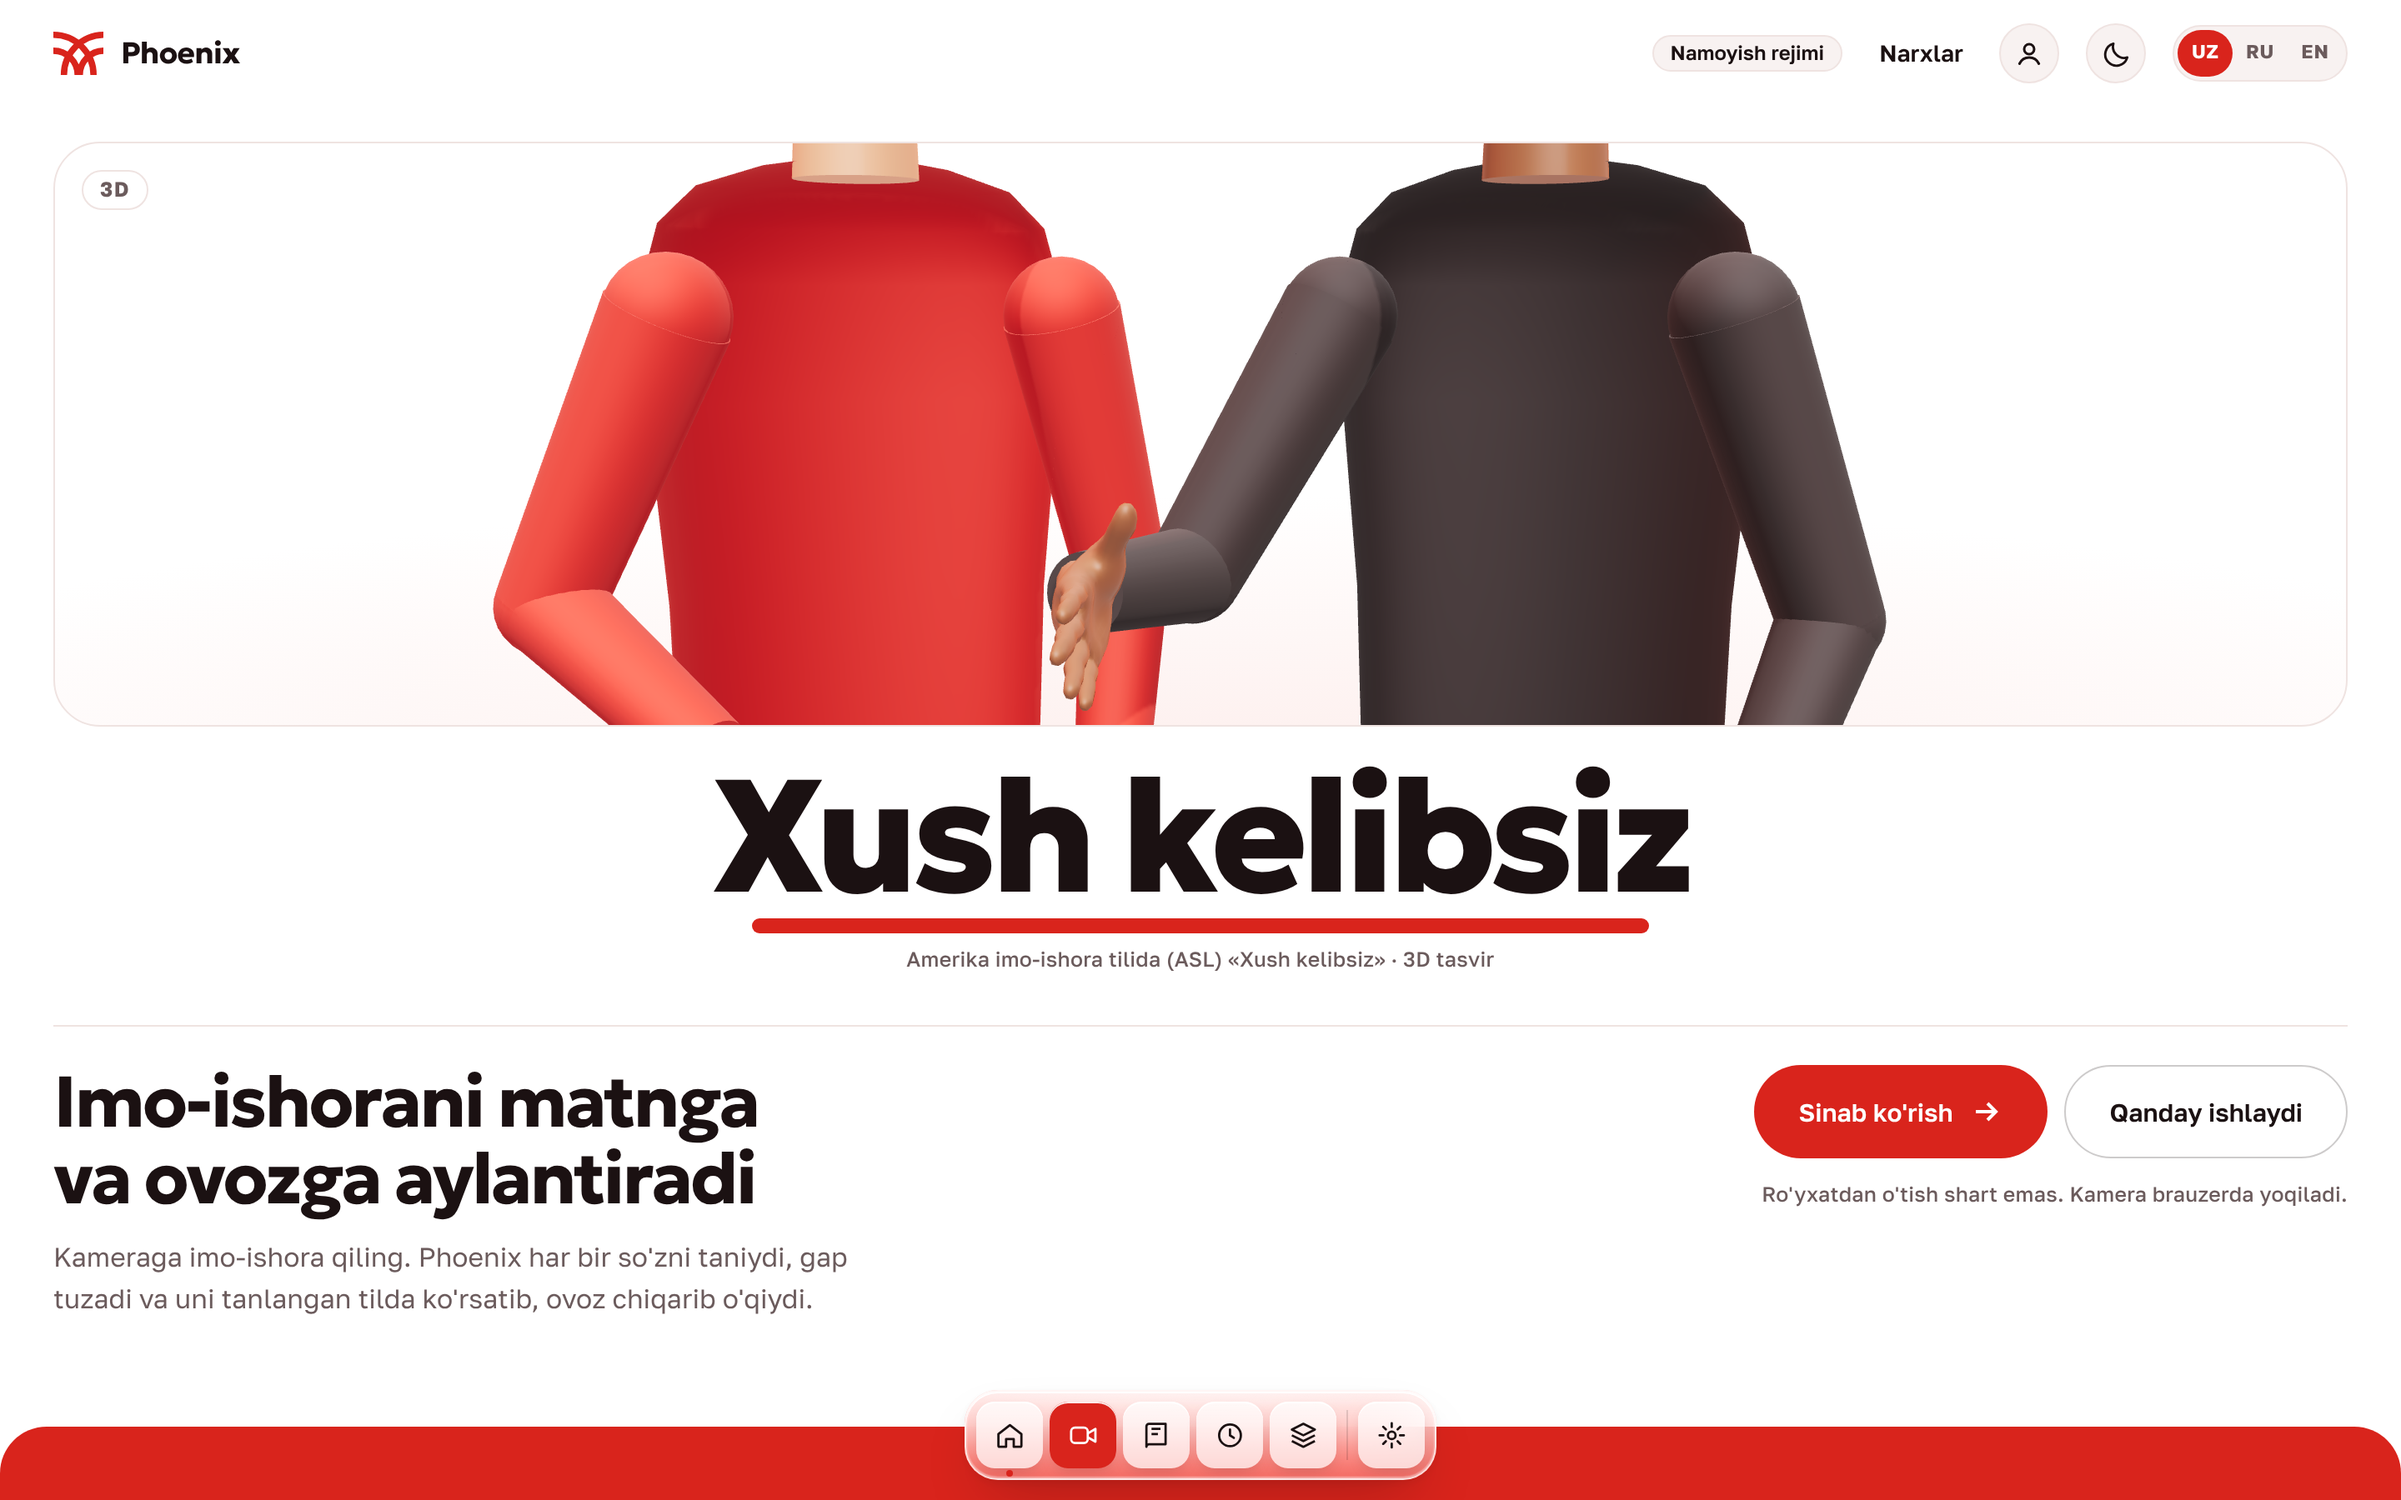
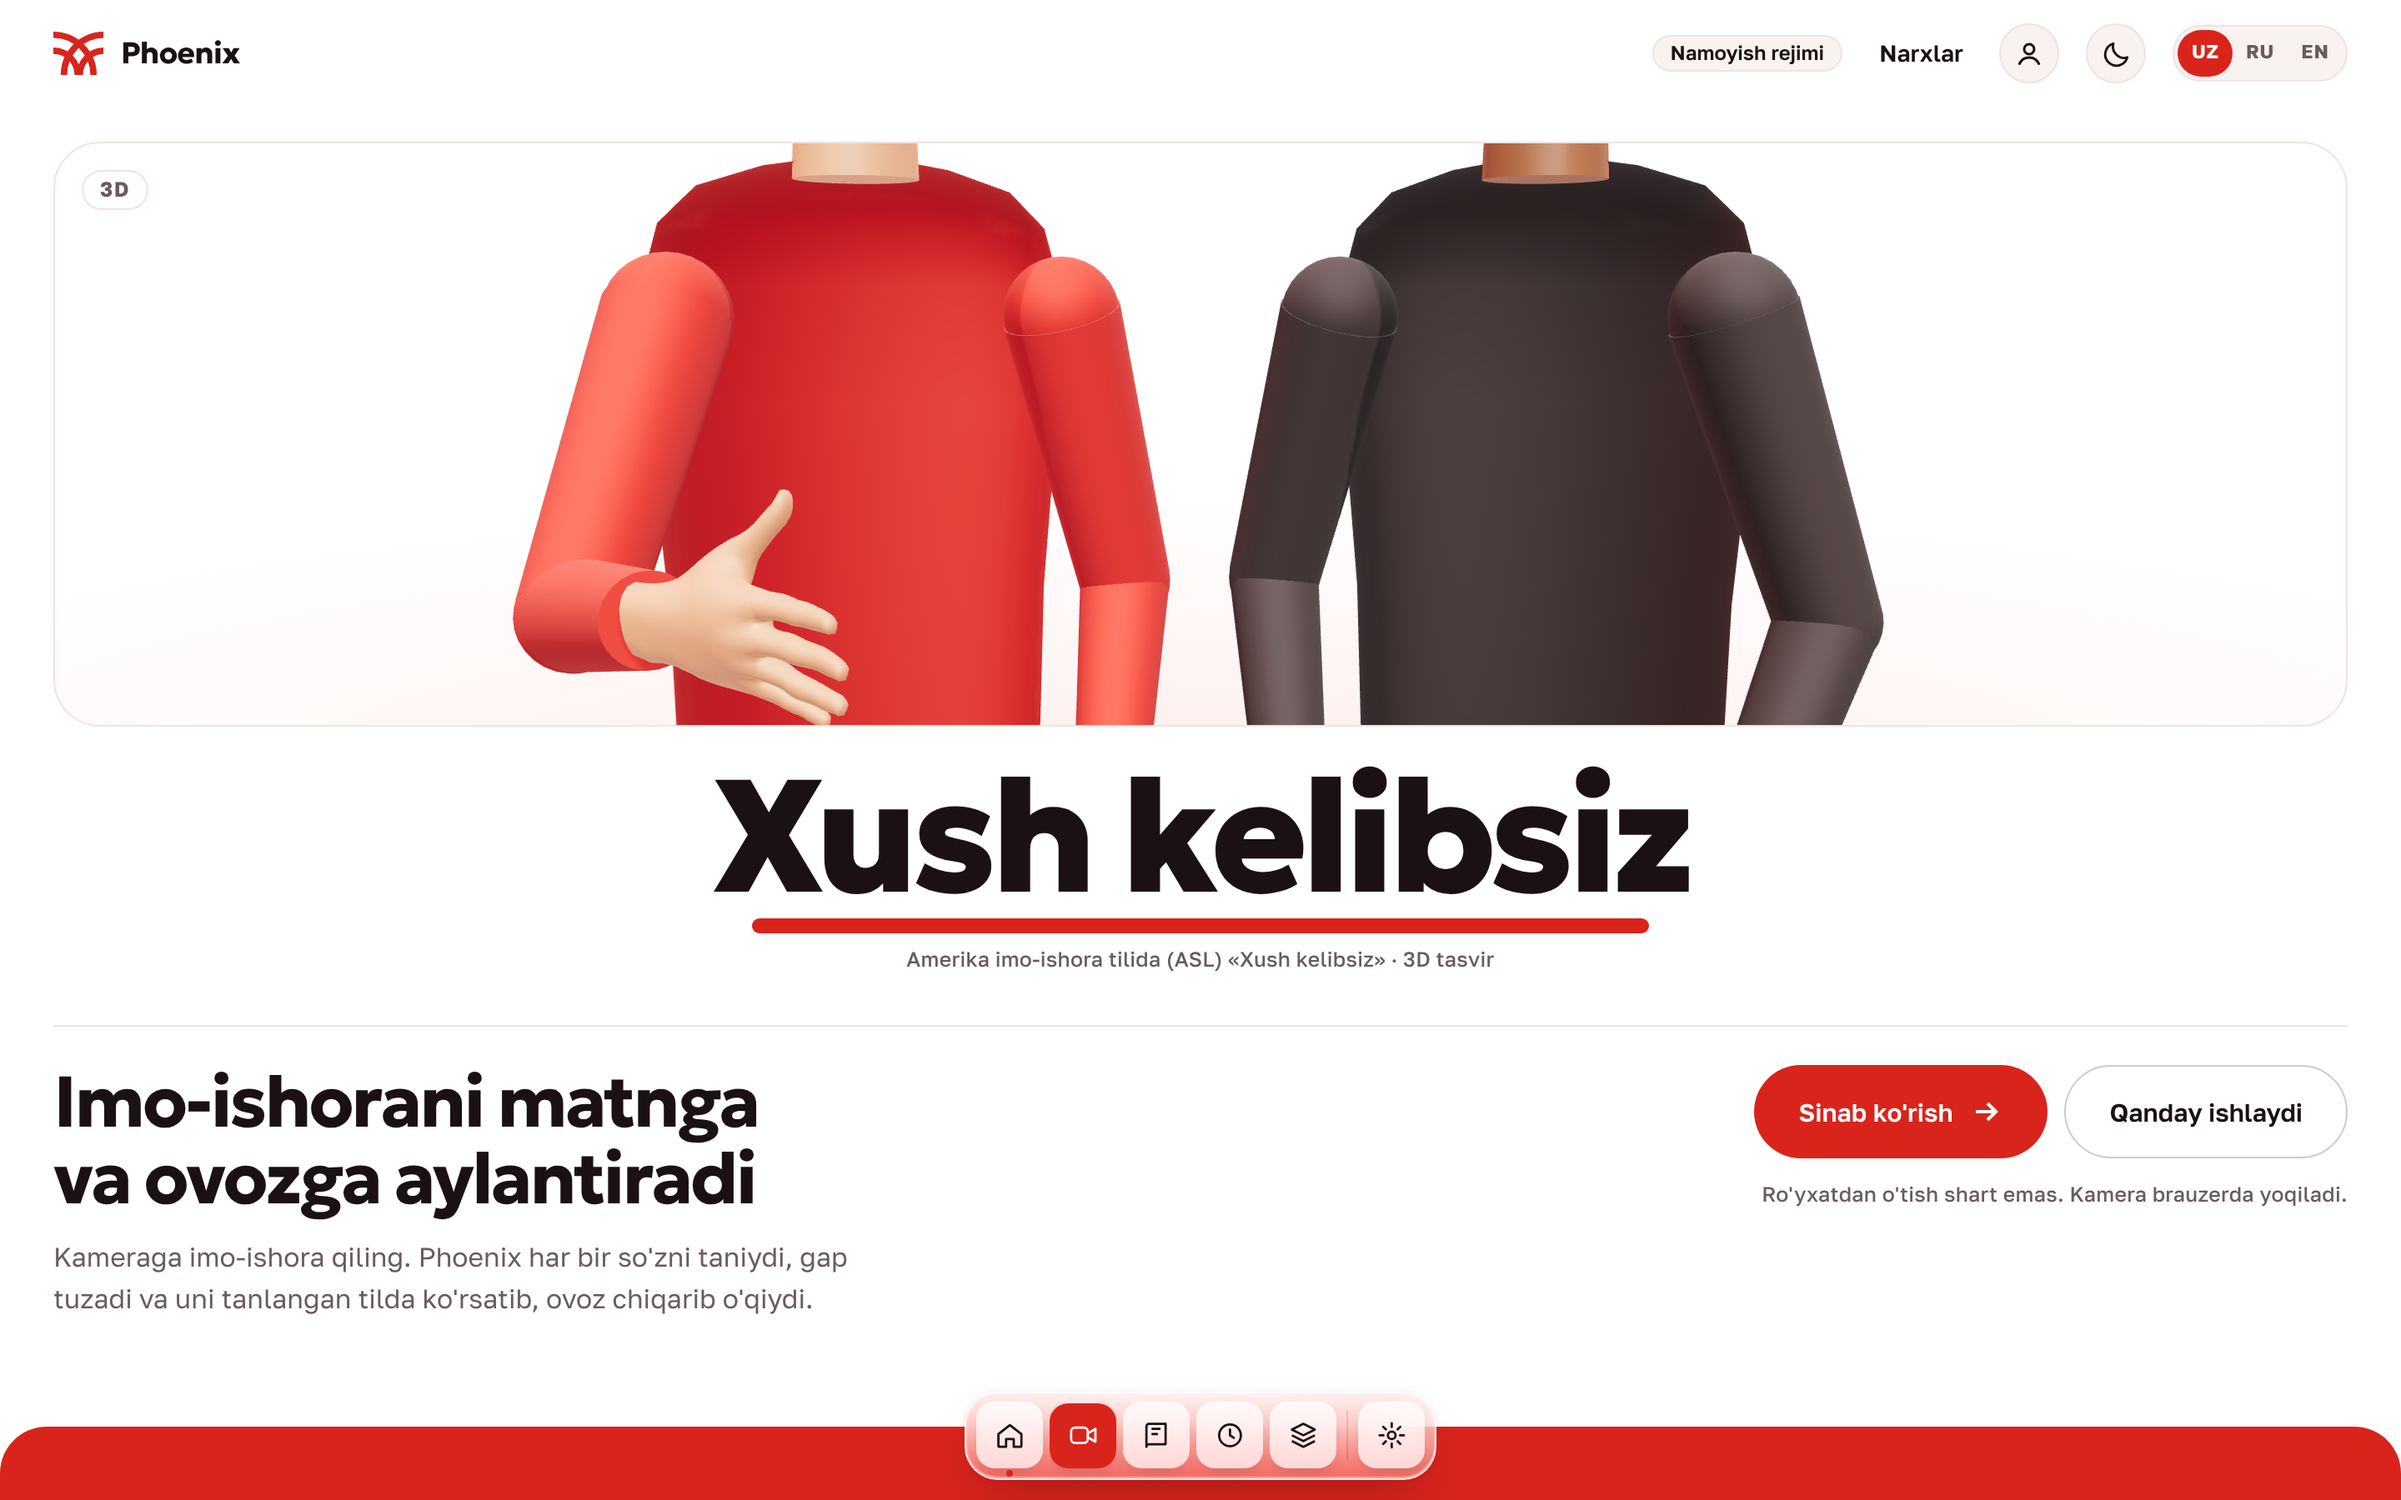
Show the current site in README; add full set of current screenshots
Replaces the first-version (dark design) screenshots in README with
fresh captures of the current white+red site. Old images stay in
docs/progress as history.

Claude-Session: https://claude.ai/code/session_016nPTtUoRcxWVYoBwHPbbhd

Changed region(s): [[0.1875, 0.1867, 0.375, 0.4978], [0.4375, 0.1867, 0.5625, 0.4978]]

diff --git a/README.md b/README.md
@@ -194,10 +194,16 @@ Tezlik: noutbuk protsessorida bitta so'z taxminan 8 soniya. Colab T4 GPU'da tezl
 
 Loyiha qanday rivojlangani rasmlarda: dizayn izlanishlari, Colab GPU va tayyor sayt. Hammasi: [`docs/progress/`](docs/progress/README.md).
 
+Hozirgi sayt (namoyish rejimida olingan). Hamma rasmlar: [`docs/screenshots/`](docs/screenshots/README.md).
+
+![Bosh sahifa](docs/screenshots/homepage.png)
+
 | | |
 | --- | --- |
-| ![Bosh sahifa](docs/progress/10-sayt-bosh-sahifa.png) | ![Tarjima](docs/progress/11-sayt-tarjima-jonli.png) |
-| Bosh sahifa | Jonli tarjima (lokal sinov: sinov kamerasi va sinov modeli) |
+| ![Tarjima](docs/screenshots/translate.png) | ![Lug'at](docs/screenshots/dictionary.png) |
+| Tarjima: kamera yoqilgan, so'zlar chiqmoqda | Lug'at |
+| ![Qorong'i mavzu](docs/screenshots/homepage-dark.png) | ![Telefonda](docs/screenshots/homepage-phone.png) |
+| Qorong'i mavzu | Telefon ekranida |
 
 ## Hujjatlar
 

diff --git a/docs/screenshots/README.md b/docs/screenshots/README.md
@@ -1,0 +1,13 @@
+# Sayt rasmlari
+
+Hozirgi sayt (`frontend/`, main). Kompyuter ekrani 1440×900, tiniq 2x. Namoyish rejimida (serversiz) olingan, shuning uchun so'zlar namuna ketma-ketligidan chiqadi. Tarjima rasmida kamera o'rnida brauzerning sinov tasviri (yashil fon).
+
+| | |
+| --- | --- |
+| ![Bosh sahifa](homepage.png) Bosh sahifa | ![Ruscha](homepage-ru.png) Til RU |
+| ![Qorong'i](homepage-dark.png) Qorong'i mavzu | ![Tarjima](translate.png) Tarjima |
+| ![Lug'at](dictionary.png) Lug'at | ![Resurslar](resources.png) Resurslar |
+| ![Narxlar](pricing.png) Narxlar | ![Sozlamalar](settings.png) Sozlamalar |
+| ![Telefonda](homepage-phone.png) Telefonda (iPhone 13) | |
+
+Eski versiyalar rasmlari tarix sifatida [`docs/progress/`](../progress/README.md) da qoldi.

diff --git a/docs/progress/README.md b/docs/progress/README.md
@@ -2,6 +2,10 @@
 
 Loyiha qanday rivojlangani rasmlarda. Eng yangisi tepada.
 
+## 5. Hozirgi sayt (2026-11-26)
+
+Eng oxirgi rasmlar: [`docs/screenshots/`](../screenshots/README.md). Pastdagilar oldingi versiyalar.
+
 ## 4. Yangi dizayn: oq va qizil (2026-11-25)
 
 Toza oq fon, bitta qizil rang, ikki kishining "xush kelibsiz" degan 3D qo'llari, uch til va pastda shisha dock. Rasmlar namoyish rejimida (serversiz) olingan.
